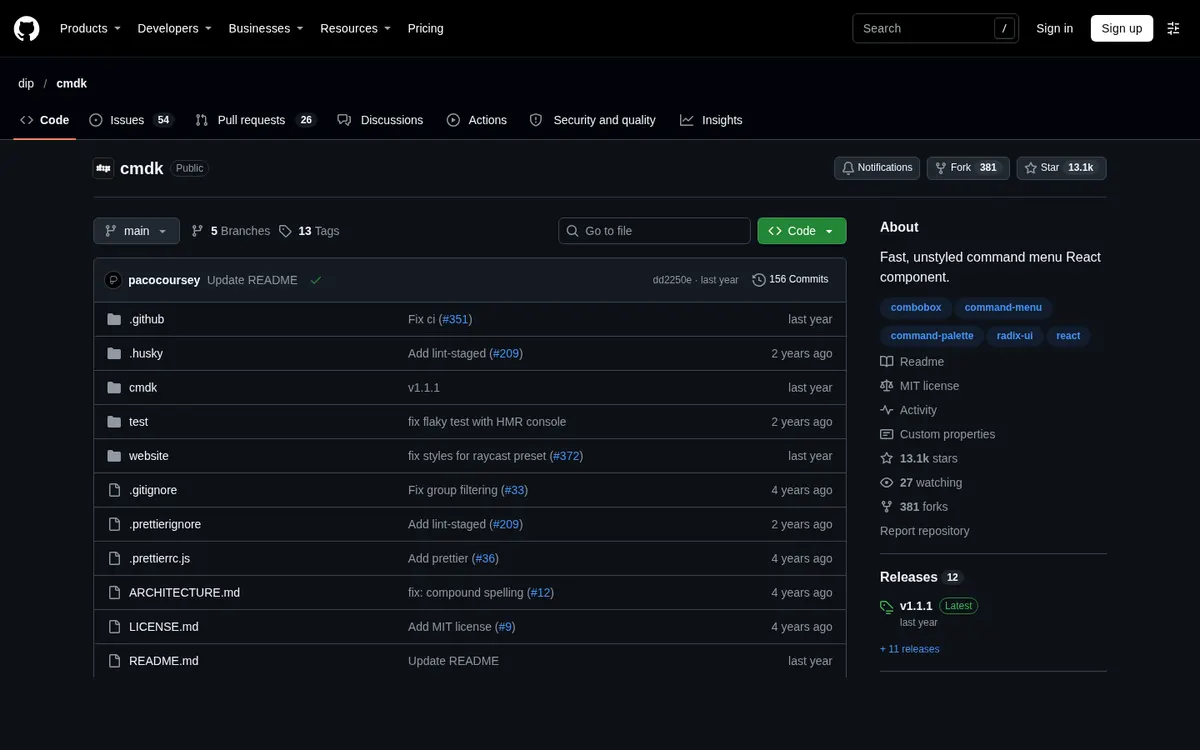
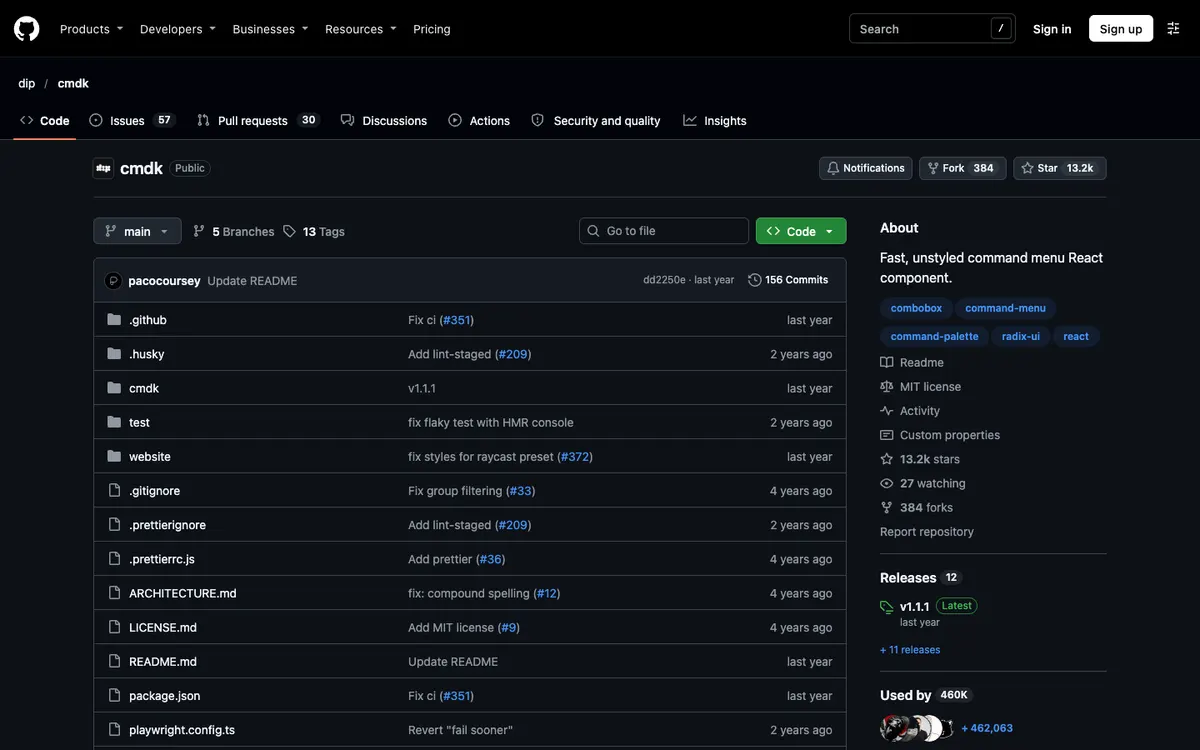
fix(registry): cmdk links to its repo, since cmdk.paco.me now redirects there

diff --git a/src/registry/components.ts b/src/registry/components.ts
@@ -1416,7 +1416,7 @@ export const components: Record<string, Component[]> = {
     ["Youtube Video Player","https://www.cult-ui.com/docs/components/youtube-video-player"],
   ],
   "cmdk": [
-    ["Command","https://github.com/pacocoursey/cmdk",["command menu","command palette","⌘k"]],
+    ["Command","https://github.com/dip/cmdk",["command menu","command palette","⌘k"]],
   ],
   "beui": [
     ["Button","https://beui.dev/components/motion/button"],

diff --git a/src/registry/data/kits.ts b/src/registry/data/kits.ts
@@ -1101,7 +1101,7 @@ export default [
         "Command.Separator", "Command.Empty", "Command.Loading", "useCommandState",
       ],
     },
-    url: "https://cmdk.paco.me",
+    url: "https://github.com/dip/cmdk", // cmdk.paco.me now redirects here
     repo: "https://github.com/dip/cmdk",
     npm: "cmdk",
     author: "Paco Coursey",
